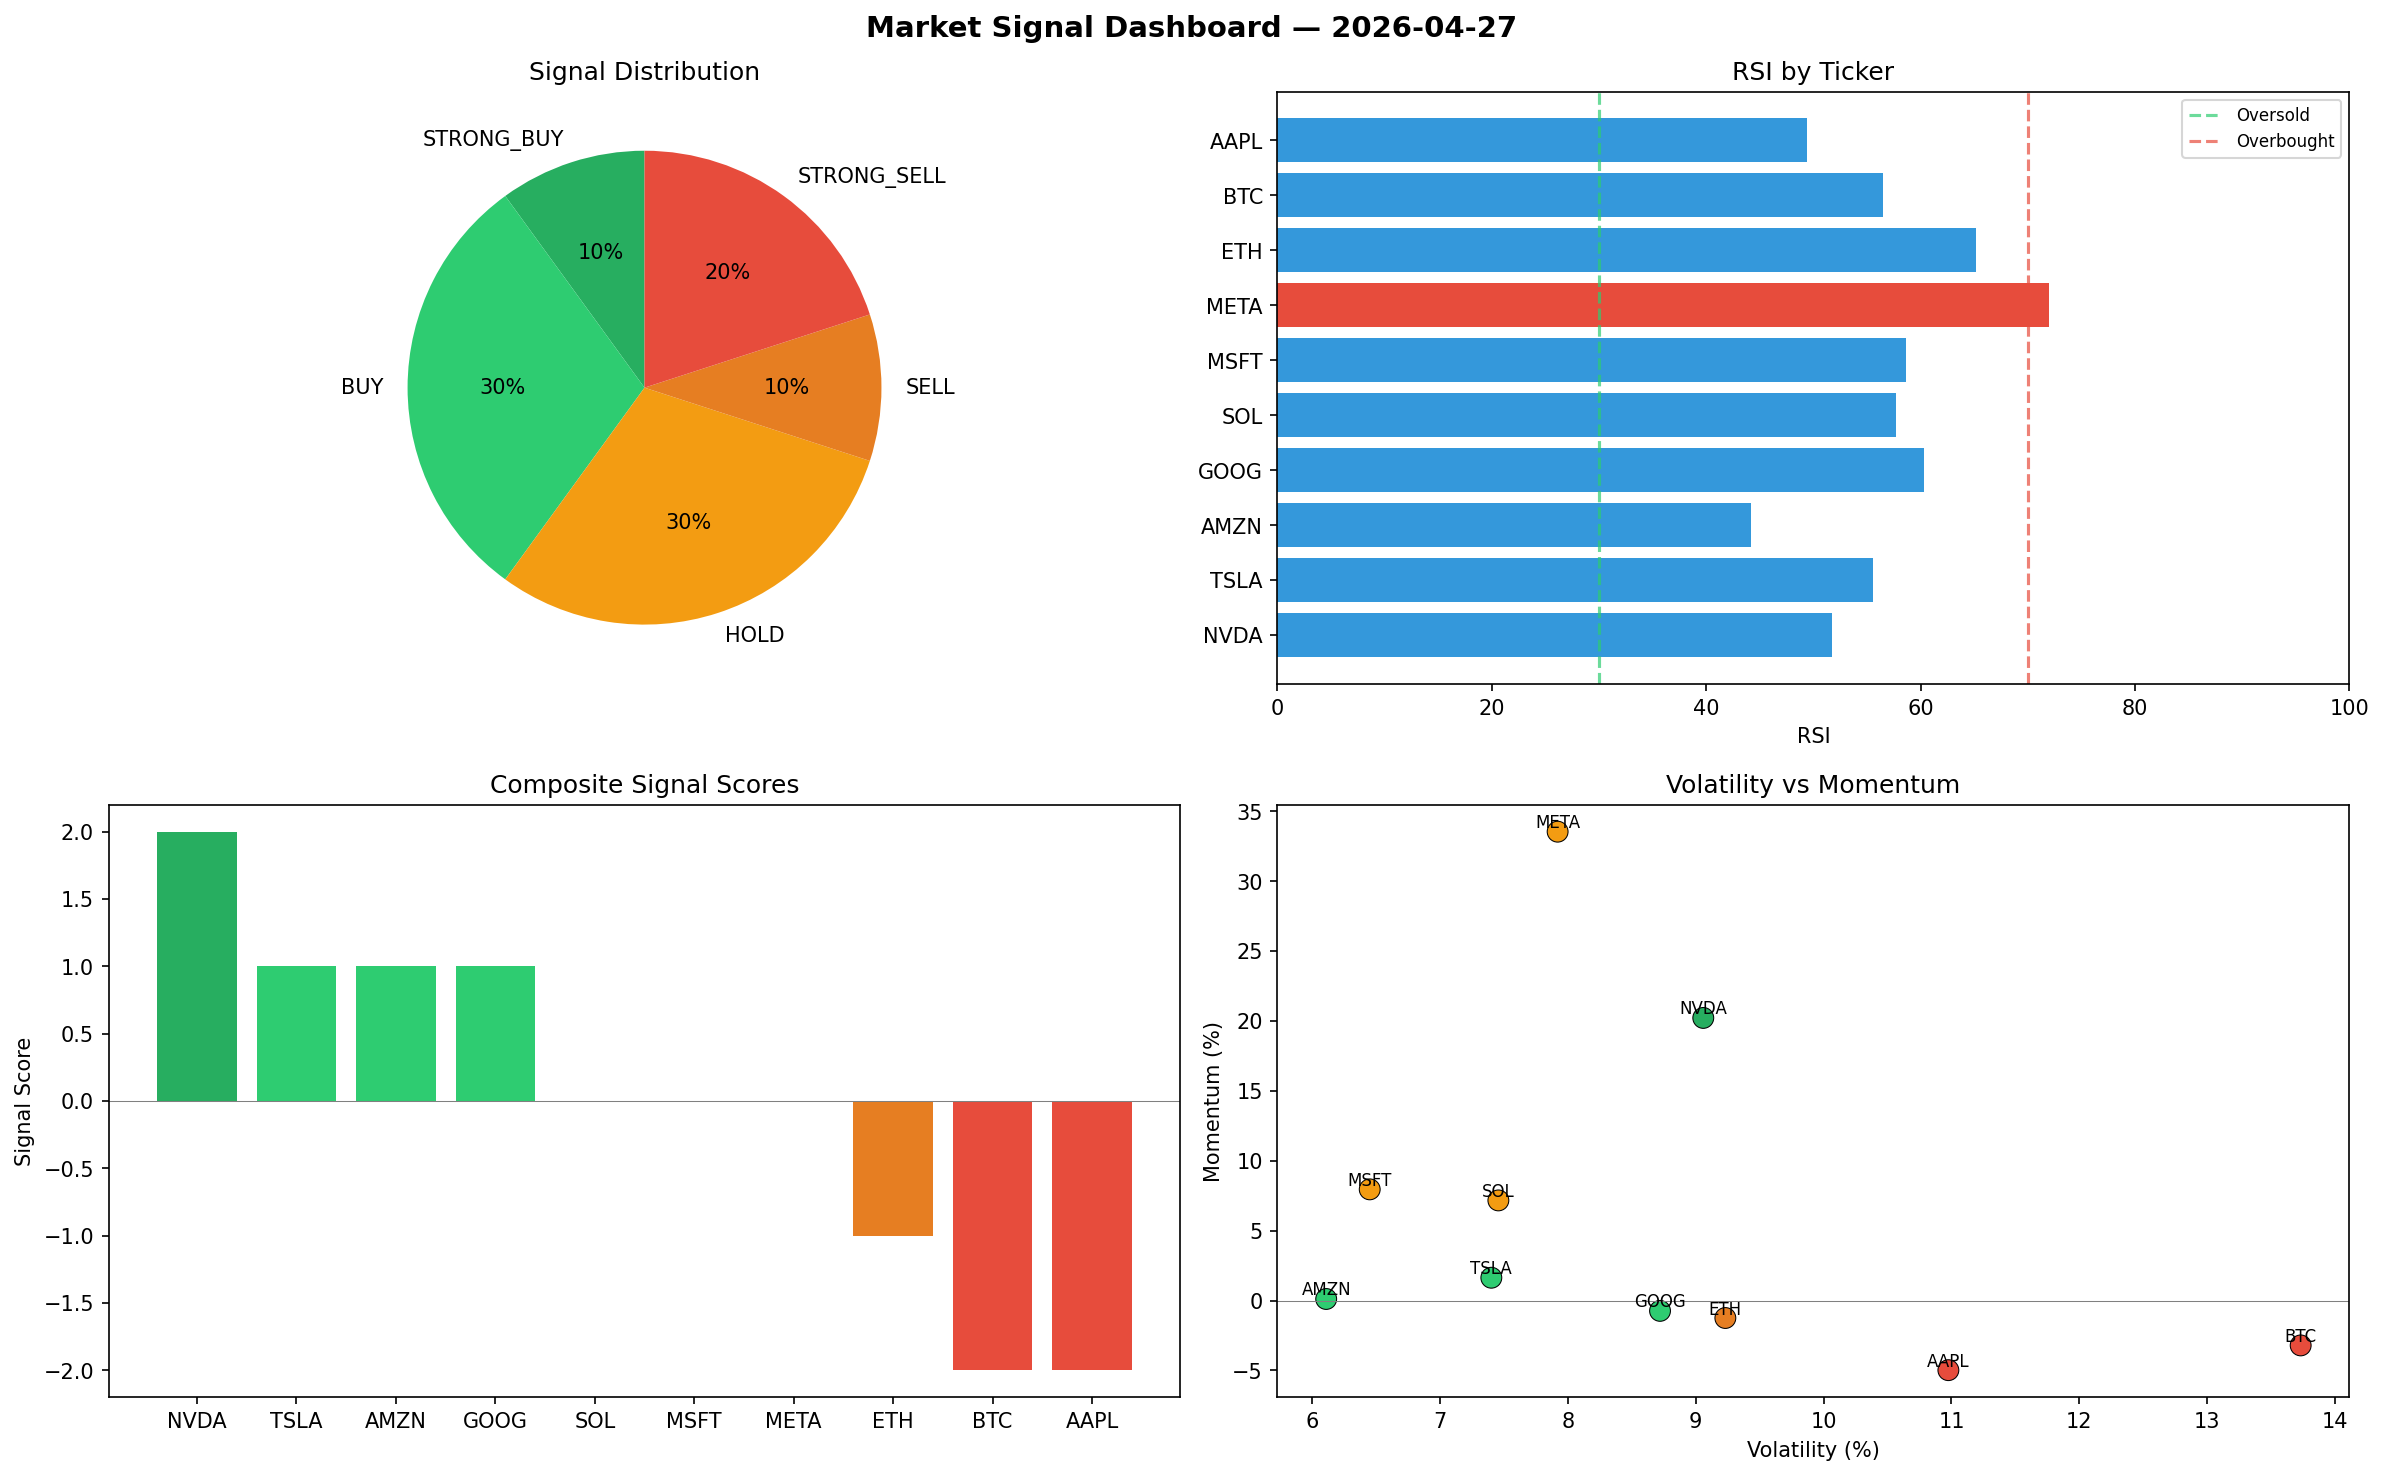
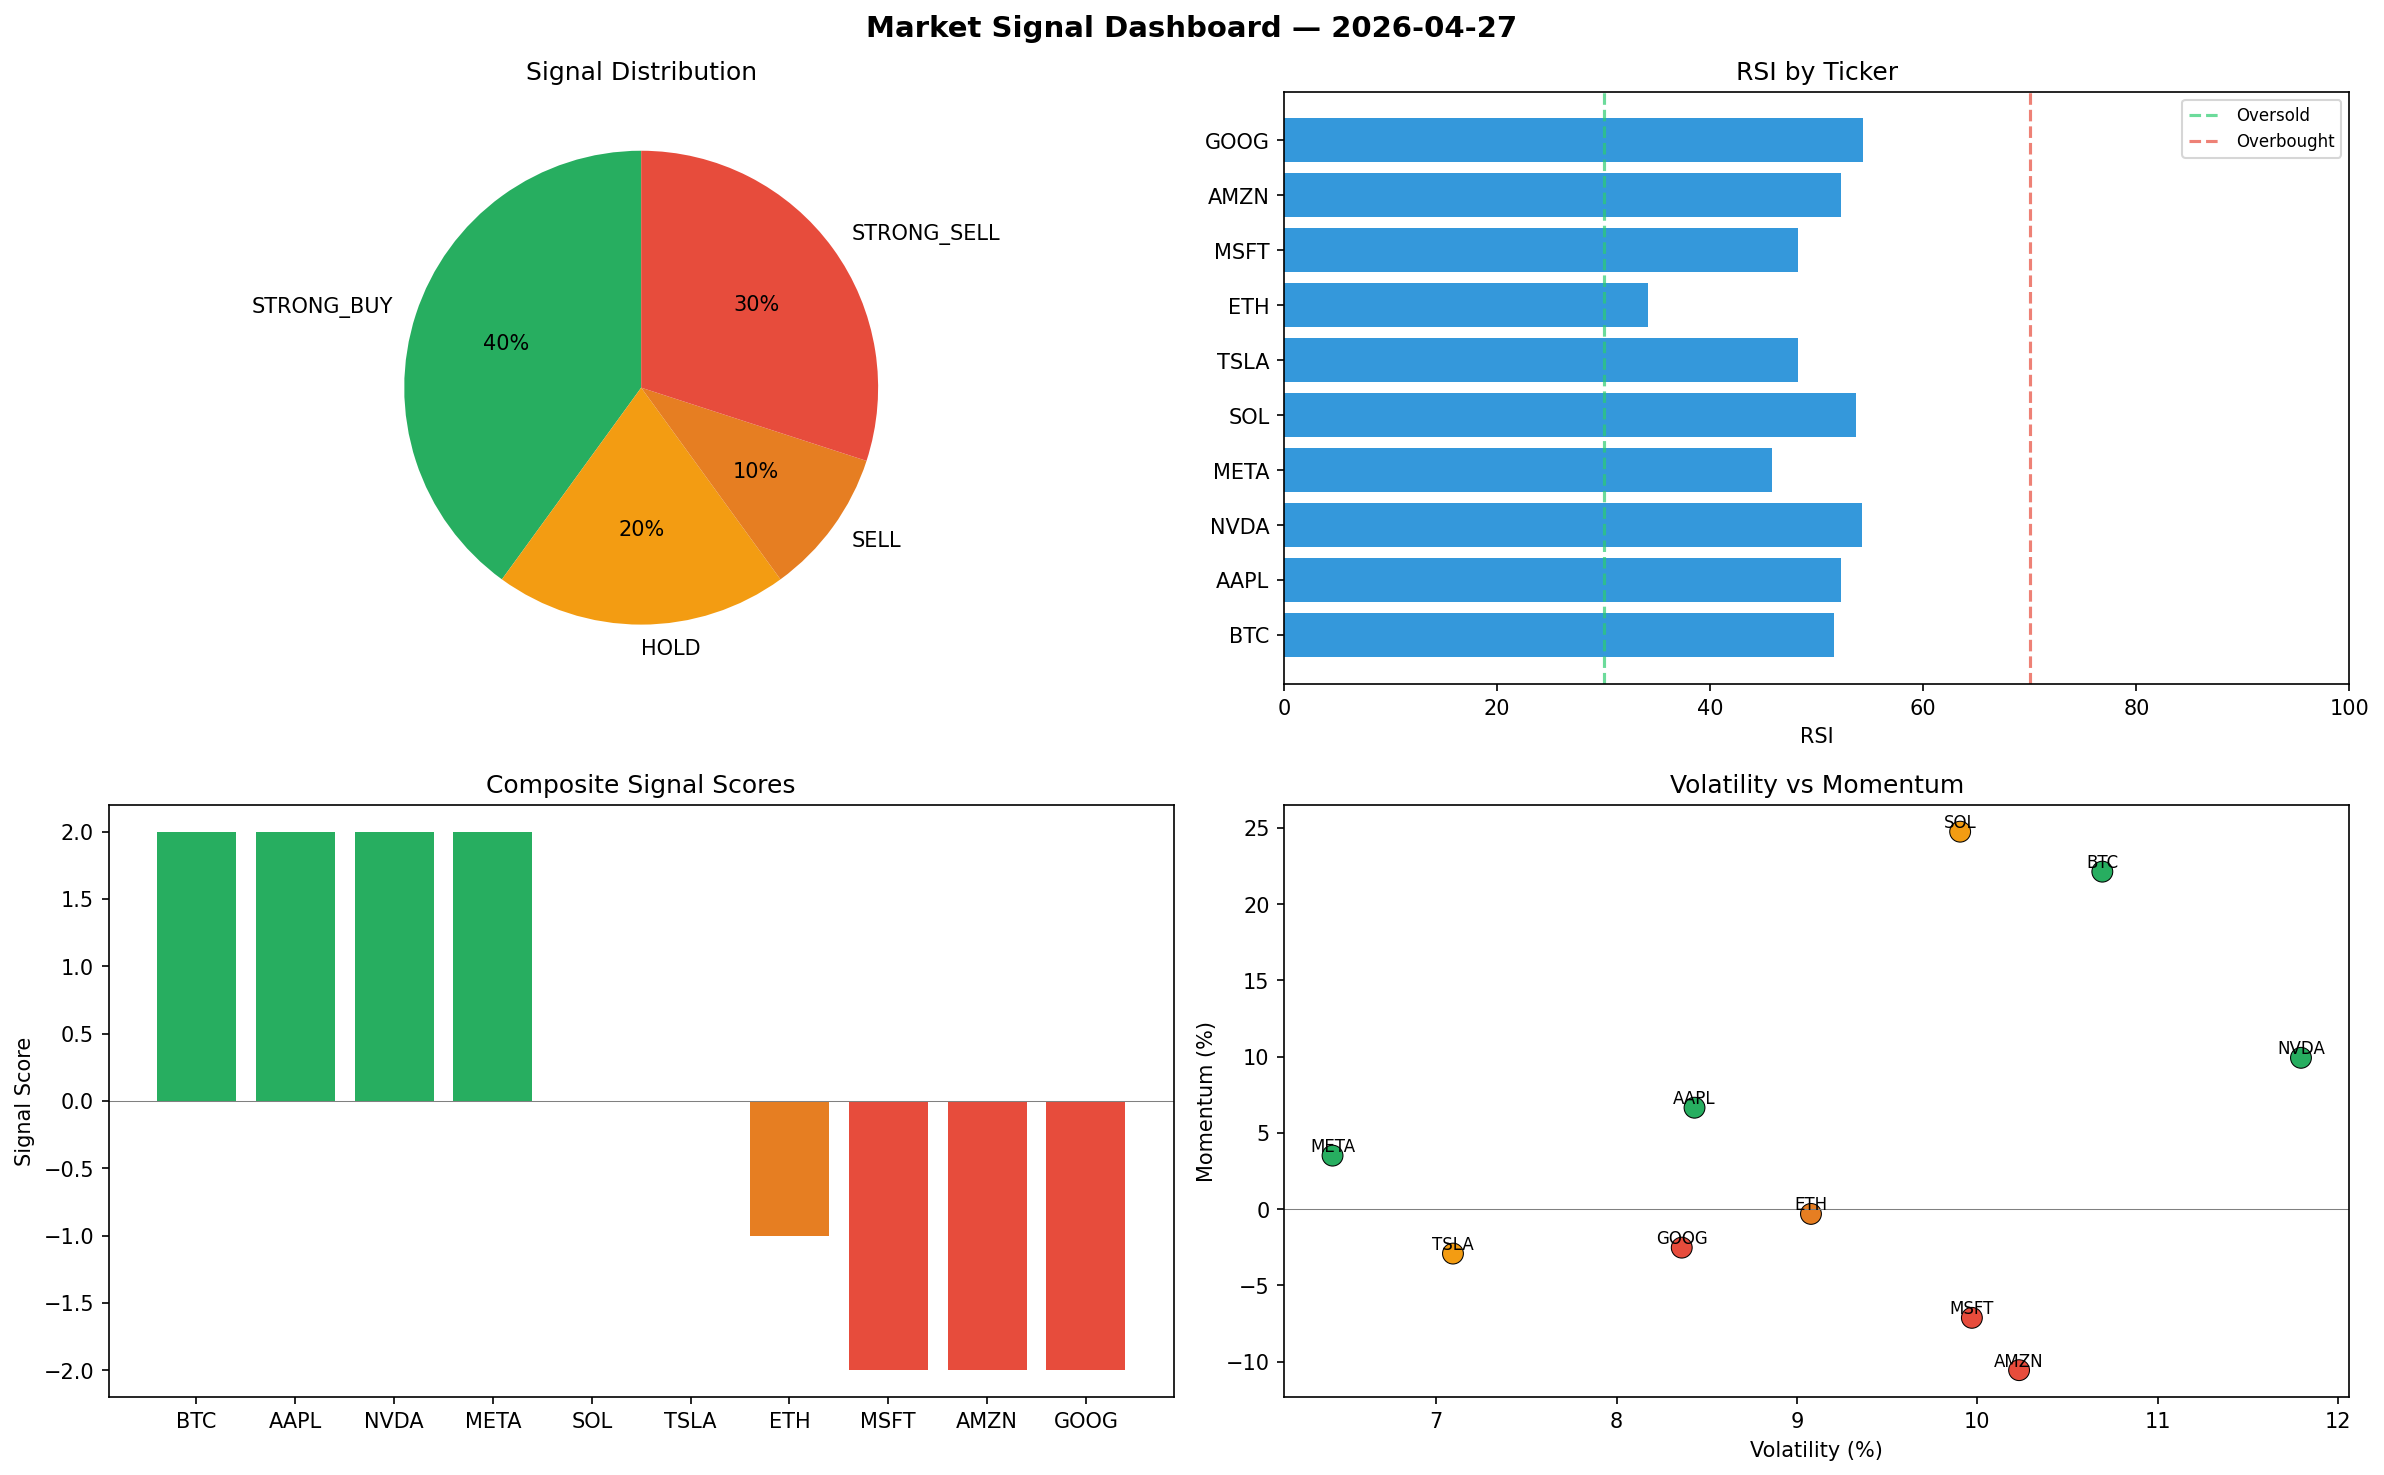
automated-bots: market signals 2026-04-27T16:08

diff --git a/logs/2026-04-27.md b/logs/2026-04-27.md
@@ -1,6 +1,6 @@
 # Market Signal Report — 2026-04-27
 
-**Run ID:** `f5f4081e9f` | **Buy:** 4 | **Sell:** 3 | **Hold:** 3
+**Run ID:** `7b160e1acc` | **Buy:** 4 | **Sell:** 4 | **Hold:** 2
 
 ![Dashboard](2026-04-27_dashboard.png)
 
@@ -8,28 +8,28 @@
 
 | Ticker | Price | Signal | Score | RSI | Momentum | Confidence |
 |--------|-------|--------|-------|-----|----------|------------|
-| NVDA | $2413.56 | **STRONG_BUY** | 2 | 51.69 | 0.2021 | 0.5 |
-| TSLA | $2888.41 | **BUY** | 1 | 55.58 | 0.0163 | 0.25 |
-| AMZN | $5004.35 | **BUY** | 1 | 44.19 | 0.0011 | 0.25 |
-| GOOG | $4195.37 | **BUY** | 1 | 60.3 | -0.0074 | 0.25 |
-| SOL | $2117.97 | **HOLD** | 0 | 57.69 | 0.0716 | 0.0 |
-| MSFT | $3869.9 | **HOLD** | 0 | 58.59 | 0.0795 | 0.0 |
-| META | $3494.41 | **HOLD** | 0 | 71.98 | 0.3353 | 0.0 |
-| ETH | $1110.66 | **SELL** | -1 | 65.2 | -0.0125 | 0.25 |
-| BTC | $85.24 | **STRONG_SELL** | -2 | 56.46 | -0.0321 | 0.5 |
-| AAPL | $3017.21 | **STRONG_SELL** | -2 | 49.43 | -0.0498 | 0.5 |
+| BTC | $4978.19 | **STRONG_BUY** | 2 | 51.61 | 0.2212 | 0.5 |
+| AAPL | $2622.01 | **STRONG_BUY** | 2 | 52.31 | 0.0665 | 0.5 |
+| NVDA | $1673.48 | **STRONG_BUY** | 2 | 54.26 | 0.0992 | 0.5 |
+| META | $374.32 | **STRONG_BUY** | 2 | 45.76 | 0.0351 | 0.5 |
+| SOL | $435.12 | **HOLD** | 0 | 53.73 | 0.2474 | 0.0 |
+| TSLA | $551.0 | **HOLD** | 0 | 48.23 | -0.0291 | 0.0 |
+| ETH | $2878.11 | **SELL** | -1 | 34.18 | -0.0031 | 0.25 |
+| MSFT | $1953.13 | **STRONG_SELL** | -2 | 48.22 | -0.0712 | 0.5 |
+| AMZN | $703.25 | **STRONG_SELL** | -2 | 52.27 | -0.1055 | 0.5 |
+| GOOG | $4462.71 | **STRONG_SELL** | -2 | 54.34 | -0.0252 | 0.5 |
 
 ## Delta vs Yesterday
 
 | Ticker | Today | Yesterday | Price Change | Signal Changed |
 |--------|-------|-----------|-------------|----------------|
-| NVDA | STRONG_BUY | HOLD | 📉 -53.04% | ⚠ YES |
-| TSLA | BUY | STRONG_BUY | 📉 -25.05% | ⚠ YES |
-| AMZN | BUY | STRONG_SELL | 📈 845.91% | ⚠ YES |
-| GOOG | BUY | STRONG_BUY | 📈 14.93% | ⚠ YES |
-| SOL | HOLD | HOLD | 📉 -56.93% | — |
-| MSFT | HOLD | BUY | 📉 -19.57% | ⚠ YES |
-| META | HOLD | STRONG_SELL | 📉 -6.9% | ⚠ YES |
-| ETH | SELL | STRONG_SELL | 📉 -49.21% | ⚠ YES |
-| BTC | STRONG_SELL | SELL | 📉 -95.91% | ⚠ YES |
-| AAPL | STRONG_SELL | STRONG_BUY | 📈 18.01% | ⚠ YES |
+| BTC | STRONG_BUY | SELL | 📈 138.7% | ⚠ YES |
+| AAPL | STRONG_BUY | STRONG_BUY | 📈 2.55% | — |
+| NVDA | STRONG_BUY | HOLD | 📉 -67.44% | ⚠ YES |
+| META | STRONG_BUY | STRONG_SELL | 📉 -90.03% | ⚠ YES |
+| SOL | HOLD | HOLD | 📉 -91.15% | — |
+| TSLA | HOLD | STRONG_BUY | 📉 -85.7% | ⚠ YES |
+| ETH | SELL | STRONG_SELL | 📈 31.63% | ⚠ YES |
+| MSFT | STRONG_SELL | BUY | 📉 -59.41% | ⚠ YES |
+| AMZN | STRONG_SELL | STRONG_SELL | 📈 32.93% | — |
+| GOOG | STRONG_SELL | STRONG_BUY | 📈 22.25% | ⚠ YES |
